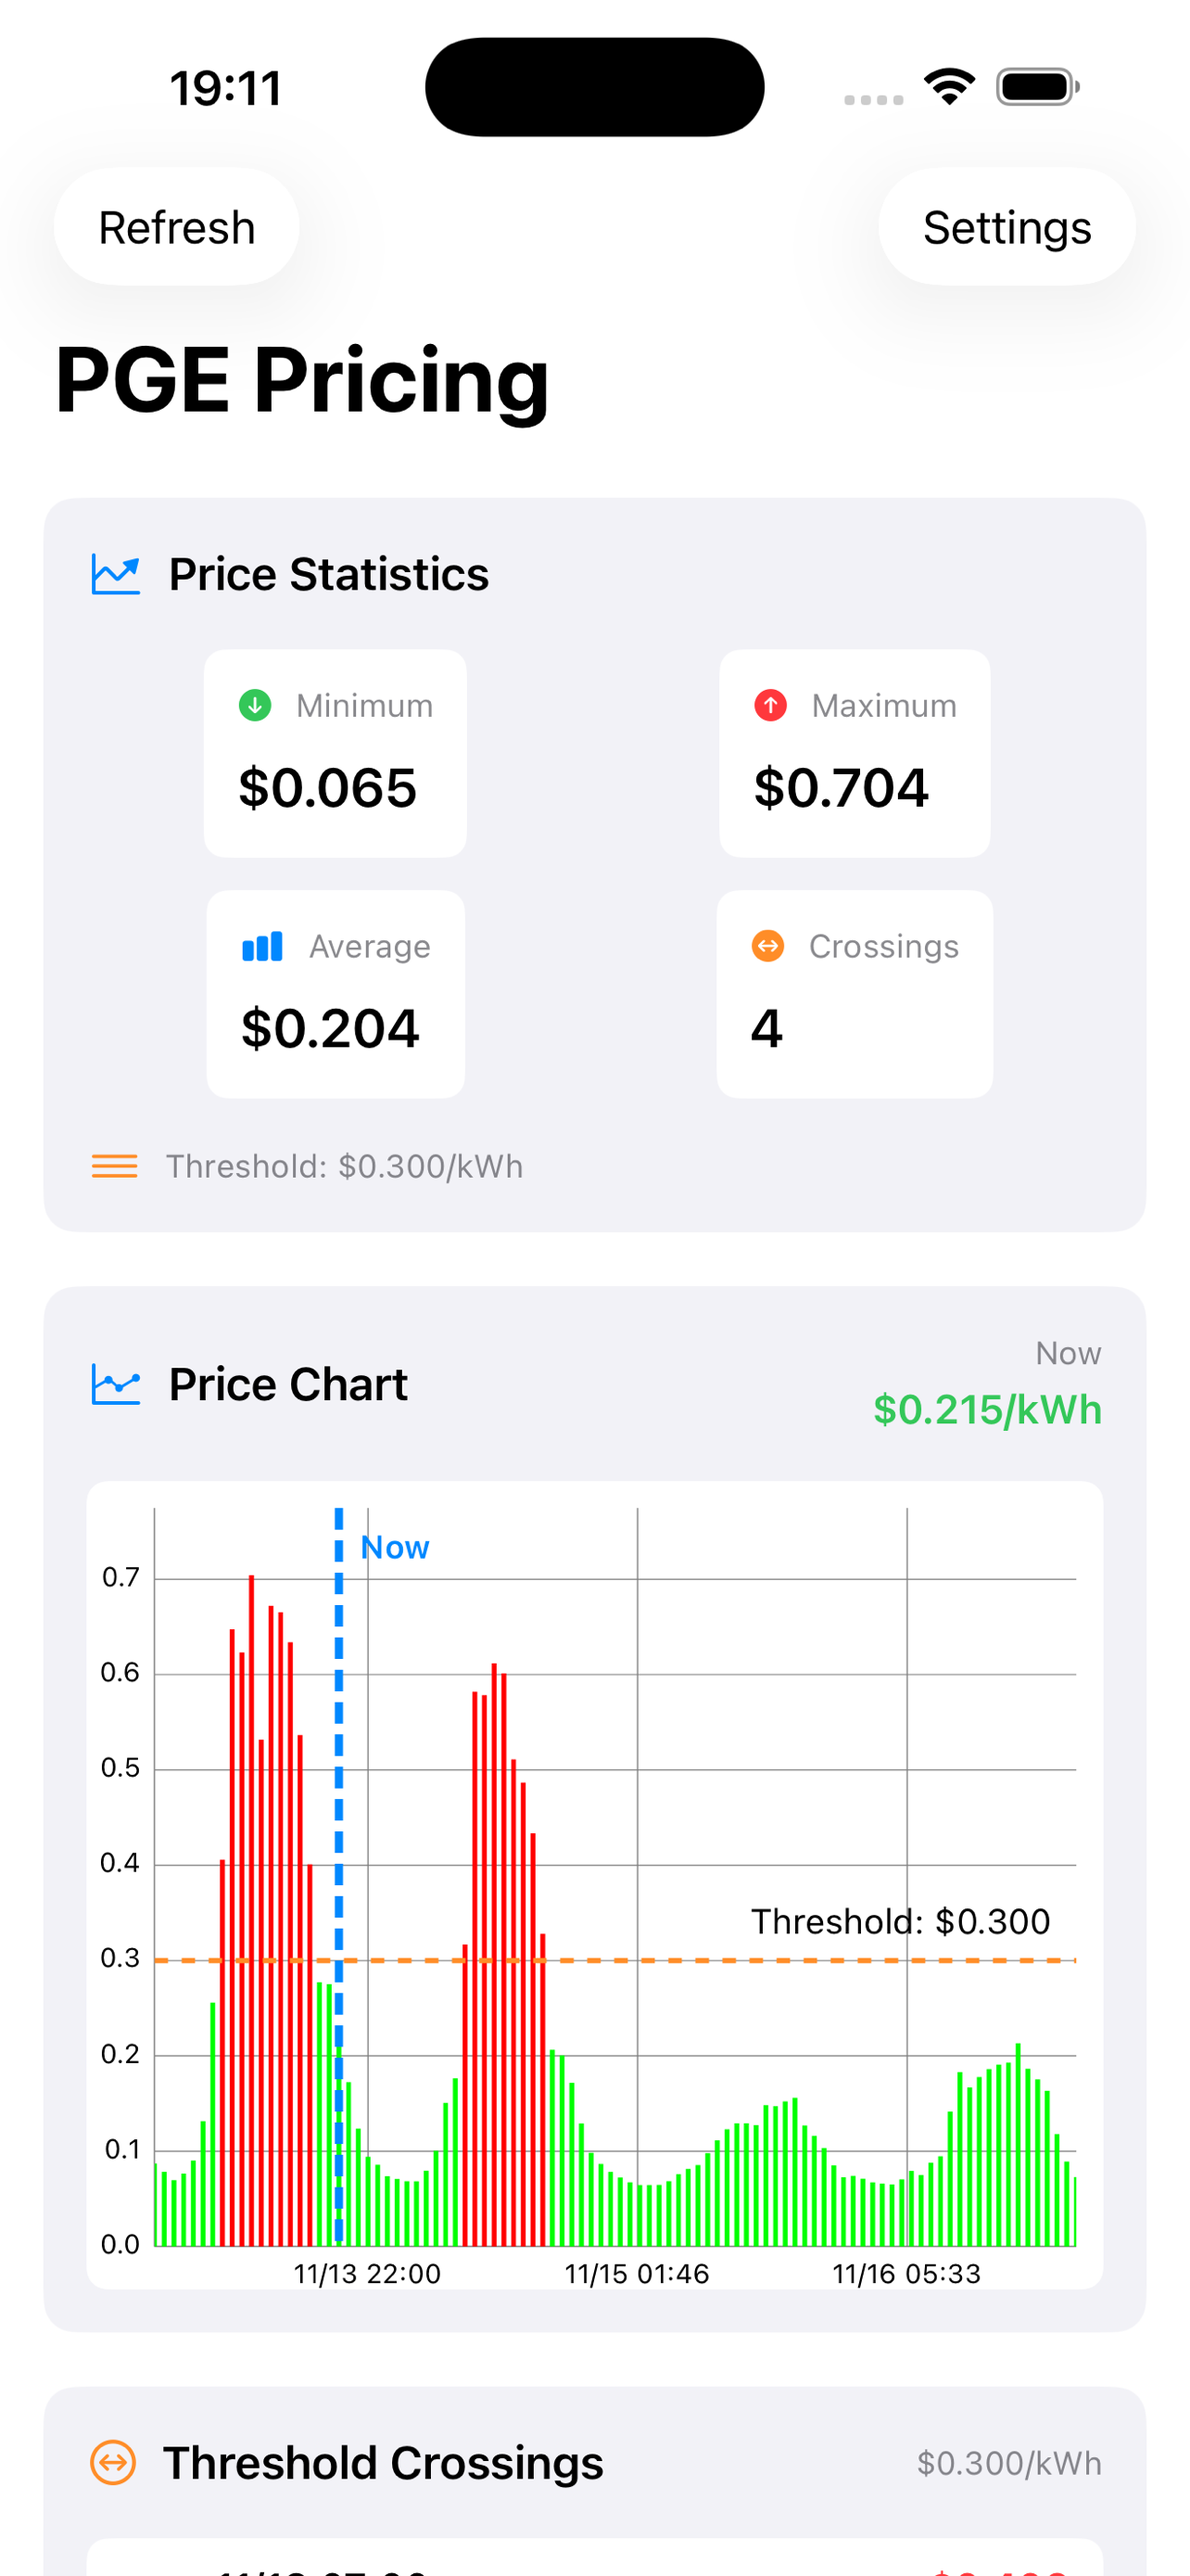
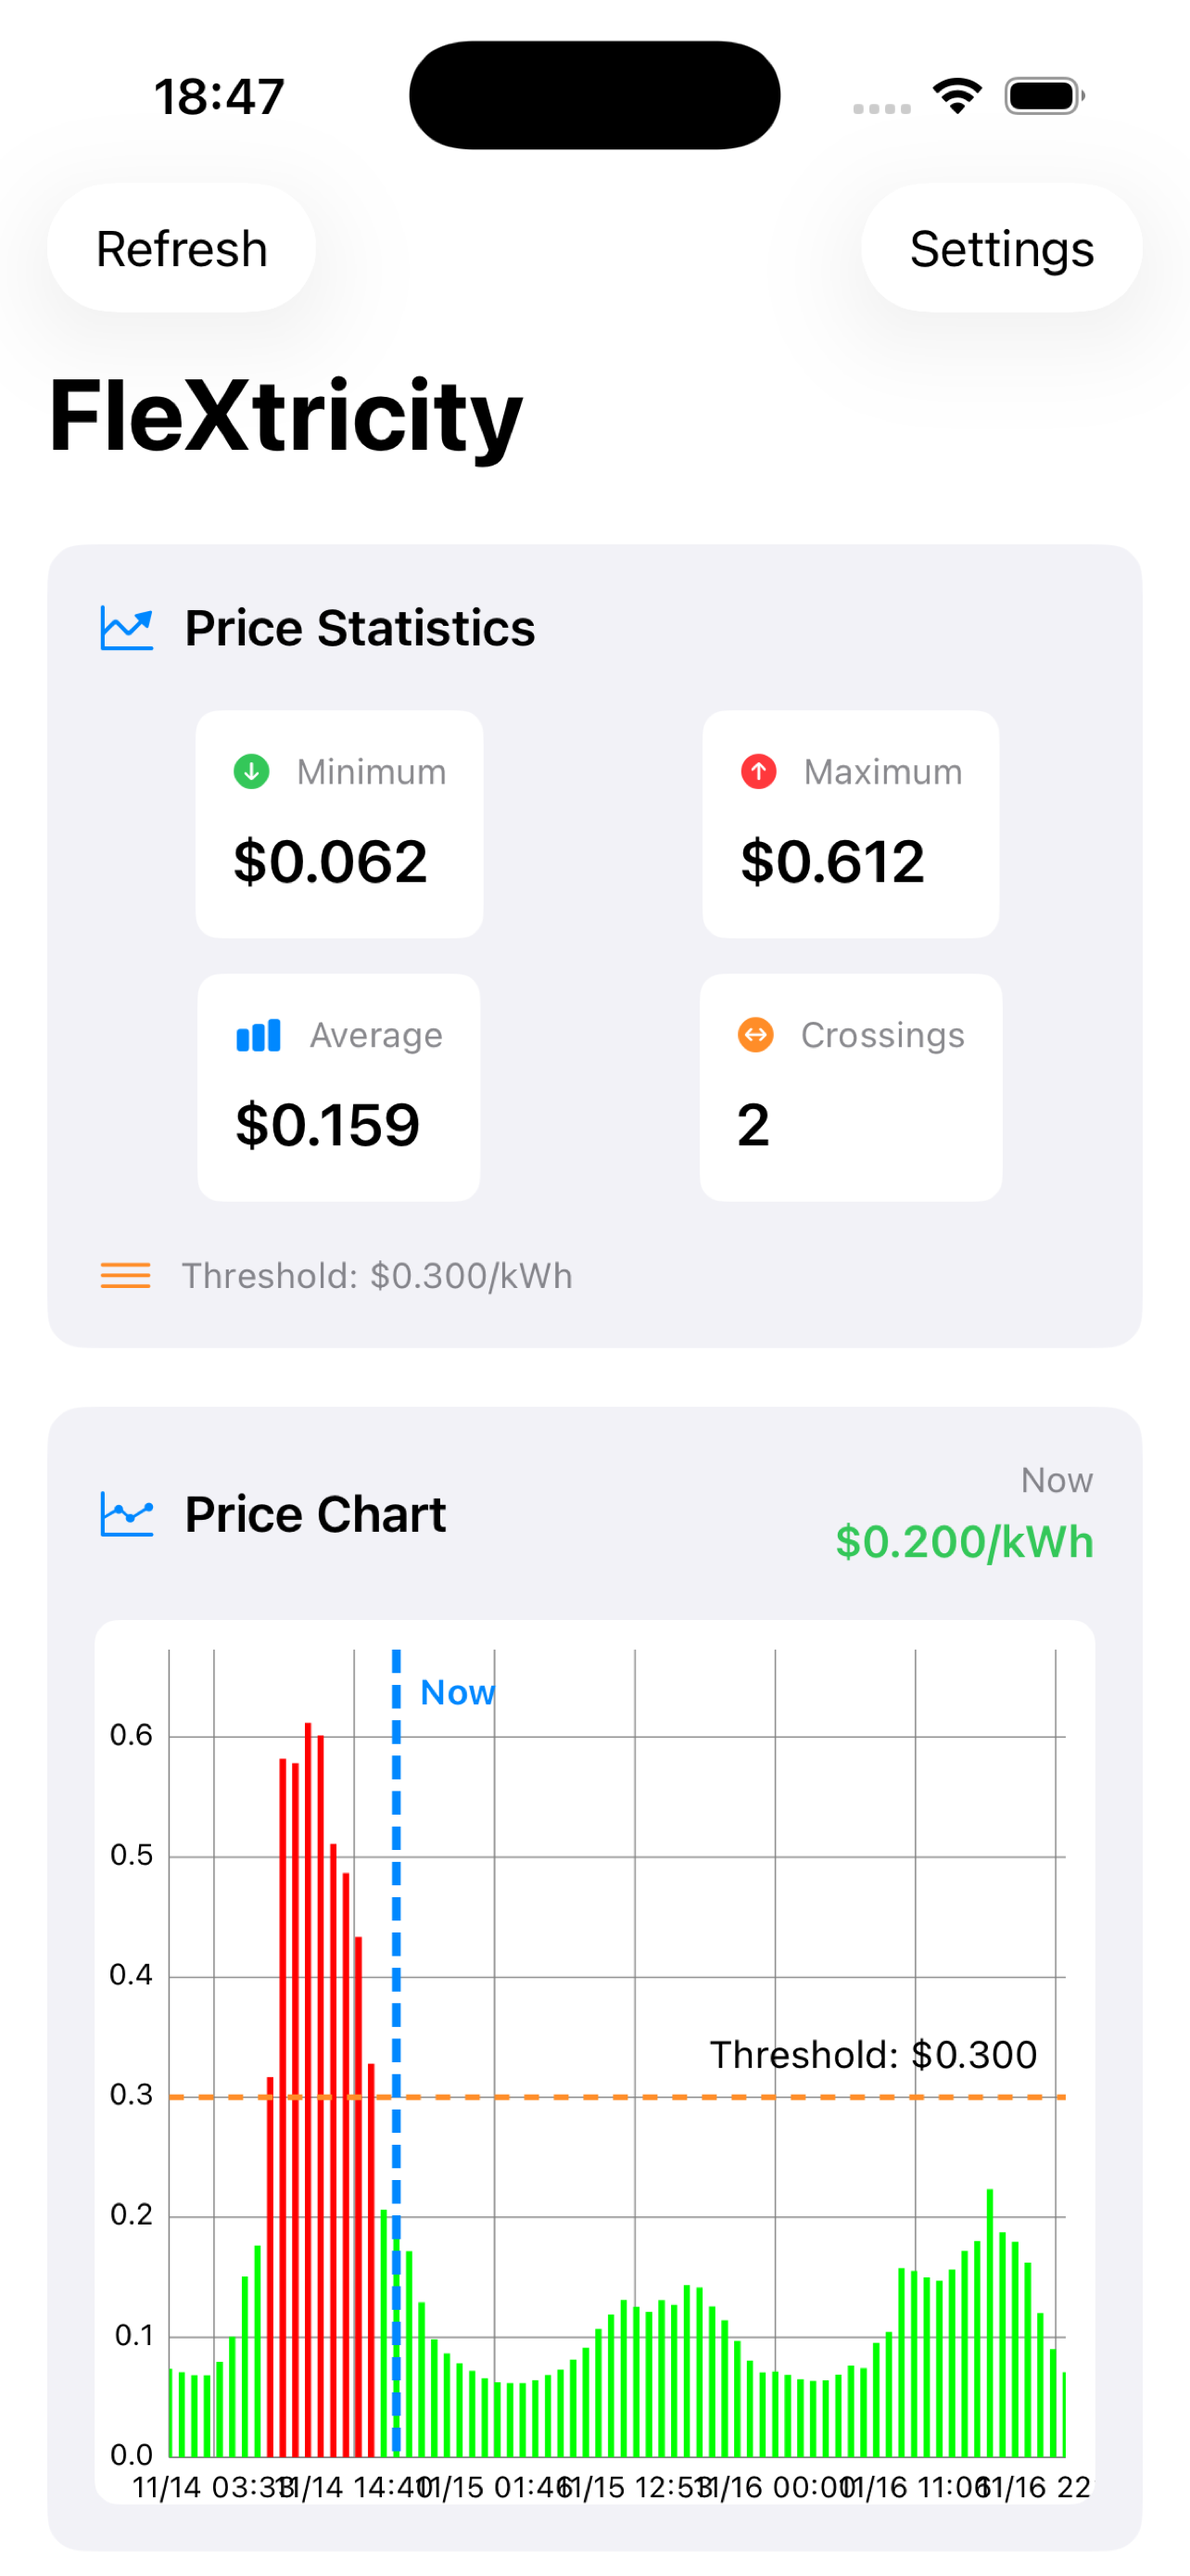
Update screenshots to latest FleXtricity version and reduce to 2 screenshots

diff --git a/index.html b/index.html
@@ -181,11 +181,7 @@
                 <p class="screenshot-caption">Real-time pricing dashboard</p>
             </div>
             <div class="screenshot-wrapper">
-                <img src="images/screenshot2.png" alt="Statistics view with price analytics">
-                <p class="screenshot-caption">Detailed statistics & insights</p>
-            </div>
-            <div class="screenshot-wrapper">
-                <img src="images/screenshot3.png" alt="Settings screen with customization options">
+                <img src="images/screenshot2.png" alt="Settings screen with customization options">
                 <p class="screenshot-caption">Customizable settings & alerts</p>
             </div>
         </div>
